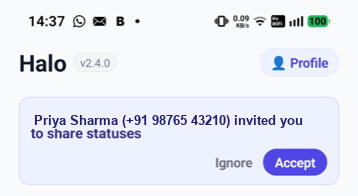
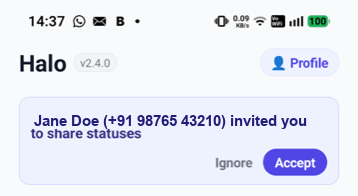
Rewrite the Halo page for new users
Lead with a 30-second summary, add getting-started steps and common
questions, and use English example names (Jane Doe, John Smith,
Emily Clark, Mike Brown) in the illustrations and invite screenshot.

Changed region(s): [[0.0922, 0.5816, 0.8603, 0.6735]]

diff --git a/halo/index.html b/halo/index.html
@@ -50,21 +50,82 @@ sitemap: false
 
 <p><img class="halo-icon" src="{{ '/halo/img/icon.png' | relative_url }}" alt="The Halo app icon: a glowing ring with a green dot" width="88" height="88"></p>
 
-<p>You call someone and it rings out. Later you find out they were driving. Or it's the other way round: you're in a meeting, your phone buzzes on the table, and you cut the call and hope they don't worry.</p>
+<p>You call a friend and it rings out. Later you find out they were driving. Or you're in a meeting, your phone buzzes on the table, and you cut the call and hope they don't worry.</p>
 
 <p>Nobody did anything wrong. The caller just couldn't tell.</p>
 
-<p><strong>Halo</strong> is a small app for Android and iPhone that fixes this. It lets your contacts know you're busy before they call.</p>
+<p><strong>Halo</strong> is an app for Android and iPhone that fixes this. It lets your contacts know you're busy before they call.</p>
 
-<h2>What it does</h2>
+<h2>Halo in 30 seconds</h2>
 
-<p>Halo shows your status where people already look: your name in their phone's contacts.</p>
+<ul>
+  <li><strong>You set a status</strong>, like 🚗 Driving or 📅 In a Meeting. One tap in the app or on the home-screen widget.</li>
+  <li><strong>It appears next to your name on their phone.</strong> If your friend has you saved as <strong>Jane Doe</strong>, they now see <strong>Jane Doe 🚗 Driving</strong>.</li>
+  <li><strong>They see it wherever your name shows up:</strong> recent calls, the incoming call screen, and WhatsApp.</li>
+  <li><strong>When you're free again</strong>, your name goes back to just <strong>Jane Doe</strong>.</li>
+</ul>
 
-<p>When Priya starts driving, her name on your phone changes from <strong>Priya Sharma</strong> to <strong>Priya Sharma 🚗 Driving</strong>. You see it in your phone app, in your recent calls, on the incoming call screen, and in WhatsApp, which uses the names from your contacts. When she's free again, her name goes back to just <strong>Priya Sharma</strong>.</p>
+<p>Nobody has to open Halo to check. They were about to call you anyway, and now they can see you're on the road.</p>
 
-<p>There's nothing new to open and nothing to check. You were about to call her anyway, and now you can see she's on the road.</p>
+<h2>What it looks like</h2>
 
-<p>These are the statuses you can pick:</p>
+<p>Here's a phone where a few contacts use Halo. These are drawings with made-up names, but each name is written exactly the way Halo writes it.</p>
+
+<div class="halo-row wide">
+  <figure>
+    <div class="halo-phone" role="img" aria-label="Illustration of a recent calls list: Jane Doe 🚗 Driving, John Smith 🔴 Busy, Mom, and Emily Clark 📅 In a Meeting">
+      <div class="halo-screen" aria-hidden="true">
+        <div class="halo-bar"><span>10:45</span><span>●●●</span></div>
+        <div class="halo-title">Recents</div>
+        <ul class="halo-list">
+          <li><span class="halo-av" style="background:#6e56cf">J</span><span class="halo-main"><span class="halo-name" style="display:block">Jane Doe 🚗 Driving</span><span class="halo-sub" style="display:block">Mobile</span></span><span class="halo-time">10:42</span></li>
+          <li><span class="halo-av" style="background:#0d74ce">J</span><span class="halo-main"><span class="halo-name" style="display:block">John Smith 🔴 Busy</span><span class="halo-sub" style="display:block">Mobile</span></span><span class="halo-time">9:15</span></li>
+          <li><span class="halo-av" style="background:#d6409f">M</span><span class="halo-main"><span class="halo-name" style="display:block">Mom</span><span class="halo-sub" style="display:block">Mobile</span></span><span class="halo-time">Yesterday</span></li>
+          <li><span class="halo-av" style="background:#12a594">E</span><span class="halo-main"><span class="halo-name" style="display:block">Emily Clark 📅 In a Meeting</span><span class="halo-sub" style="display:block">Mobile</span></span><span class="halo-time">Yesterday</span></li>
+          <li><span class="halo-av" style="background:#ca8a04">M</span><span class="halo-main"><span class="halo-name" style="display:block">Mike Brown</span><span class="halo-sub" style="display:block">Mobile</span></span><span class="halo-time">Mon</span></li>
+        </ul>
+      </div>
+    </div>
+    <figcaption>Recent calls. Mom and Mike have no status set, so their names look normal.</figcaption>
+  </figure>
+  <figure>
+    <div class="halo-phone" role="img" aria-label="Illustration of an incoming call from Jane Doe 🚗 Driving">
+      <div class="halo-screen" aria-hidden="true">
+        <div class="halo-call">
+          <div class="label">Incoming call</div>
+          <span class="halo-av" style="background:#6e56cf">J</span>
+          <div class="who">Jane Doe 🚗 Driving</div>
+          <div class="num">Mobile</div>
+          <div class="btns"><span class="no"></span><span class="yes"></span></div>
+        </div>
+      </div>
+    </div>
+    <figcaption>The incoming call screen shows the status too.</figcaption>
+  </figure>
+</div>
+
+<div class="halo-row wide">
+  <figure>
+    <div class="halo-phone" role="img" aria-label="Illustration of a chat list: Jane Doe 🚗 Driving, John Smith 🔴 Busy, Mom, and Emily Clark 🏋 At the Gym">
+      <div class="halo-screen" aria-hidden="true">
+        <div class="halo-bar"><span>10:45</span><span>●●●</span></div>
+        <div class="halo-title">Chats</div>
+        <div class="halo-tabs"><span>All</span><span>Unread</span><span>Groups</span></div>
+        <ul class="halo-list">
+          <li><span class="halo-av" style="background:#6e56cf">J</span><span class="halo-main"><span class="halo-name" style="display:block">Jane Doe 🚗 Driving</span><span class="halo-sub" style="display:block">Leaving now, see you at 7</span></span><span class="halo-time">10:40</span></li>
+          <li><span class="halo-av" style="background:#0d74ce">J</span><span class="halo-main"><span class="halo-name" style="display:block">John Smith 🔴 Busy</span><span class="halo-sub" style="display:block">Can we move the call to 4?</span></span><span class="halo-time">9:58</span></li>
+          <li><span class="halo-av" style="background:#d6409f">M</span><span class="halo-main"><span class="halo-name" style="display:block">Mom</span><span class="halo-sub" style="display:block">Did you eat?</span></span><span class="halo-time">9:30</span></li>
+          <li><span class="halo-av" style="background:#12a594">E</span><span class="halo-main"><span class="halo-name" style="display:block">Emily Clark 🏋 At the Gym</span><span class="halo-sub" style="display:block">Sent the tickets</span></span><span class="halo-time">8:12</span></li>
+        </ul>
+      </div>
+    </div>
+    <figcaption>WhatsApp uses the names saved in your contacts, so the status shows there too.</figcaption>
+  </figure>
+</div>
+
+<p>John is a work contact, so you only ever see <strong>🔴 Busy</strong> for him, whatever he's actually doing. More on that below.</p>
+
+<h2>The statuses</h2>
 
 <ul class="halo-statuses">
   <li>🟢 Available</li>
@@ -74,128 +135,77 @@ sitemap: false
   <li>🏋 At the Gym</li>
 </ul>
 
-<p>Halo can also set some of them for you. Under <strong>Auto-set</strong> you can turn on Driving, Calendar meetings and Low battery, and Halo switches your status when it notices one of those. Each one is a switch, so you choose which ones run.</p>
+<p>You can set them yourself, or let Halo do it. Under <strong>Auto-set</strong>, turn on Driving, Calendar meetings or Low battery, and Halo changes your status when it notices one of those. Each one has its own switch.</p>
 
-<h2>How it looks</h2>
+<h2>Getting started</h2>
 
-<p>Here's what your phone shows when a few of your contacts use Halo. These are illustrations, with made-up names, but the names are written exactly the way Halo writes them.</p>
+<p>Halo only works between people who both have it, so setting up takes two people. It takes about a minute.</p>
 
-<div class="halo-row wide">
-  <figure>
-    <div class="halo-phone" role="img" aria-label="Illustration of a recent calls list: Priya Sharma 🚗 Driving, Rahul Mehta 🔴 Busy, Mom, and Ananya Iyer 📅 In a Meeting">
-      <div class="halo-screen" aria-hidden="true">
-        <div class="halo-bar"><span>10:45</span><span>●●●</span></div>
-        <div class="halo-title">Recents</div>
-        <ul class="halo-list">
-          <li><span class="halo-av" style="background:#6e56cf">P</span><span class="halo-main"><span class="halo-name" style="display:block">Priya Sharma 🚗 Driving</span><span class="halo-sub" style="display:block">Mobile</span></span><span class="halo-time">10:42</span></li>
-          <li><span class="halo-av" style="background:#0d74ce">R</span><span class="halo-main"><span class="halo-name" style="display:block">Rahul Mehta 🔴 Busy</span><span class="halo-sub" style="display:block">Mobile</span></span><span class="halo-time">9:15</span></li>
-          <li><span class="halo-av" style="background:#d6409f">M</span><span class="halo-main"><span class="halo-name" style="display:block">Mom</span><span class="halo-sub" style="display:block">Mobile</span></span><span class="halo-time">Yesterday</span></li>
-          <li><span class="halo-av" style="background:#12a594">A</span><span class="halo-main"><span class="halo-name" style="display:block">Ananya Iyer 📅 In a Meeting</span><span class="halo-sub" style="display:block">Mobile</span></span><span class="halo-time">Yesterday</span></li>
-          <li><span class="halo-av" style="background:#ca8a04">K</span><span class="halo-main"><span class="halo-name" style="display:block">Karan Shah</span><span class="halo-sub" style="display:block">Mobile</span></span><span class="halo-time">Mon</span></li>
-        </ul>
-      </div>
-    </div>
-    <figcaption>Illustration: how your contacts look in your phone app. Mom and Karan have no status showing, so their names are unchanged.</figcaption>
-  </figure>
-  <figure>
-    <div class="halo-phone" role="img" aria-label="Illustration of an incoming call from Priya Sharma 🚗 Driving, +91 98765 43210">
-      <div class="halo-screen" aria-hidden="true">
-        <div class="halo-call">
-          <div class="label">Incoming call</div>
-          <span class="halo-av" style="background:#6e56cf">P</span>
-          <div class="who">Priya Sharma 🚗 Driving</div>
-          <div class="num">Mobile · +91 98765 43210</div>
-          <div class="btns"><span class="no"></span><span class="yes"></span></div>
-        </div>
-      </div>
-    </div>
-    <figcaption>Illustration: the incoming call screen shows the status too.</figcaption>
-  </figure>
-</div>
-
-<div class="halo-row wide">
-  <figure>
-    <div class="halo-phone" role="img" aria-label="Illustration of a chat list: Priya Sharma 🚗 Driving, Rahul Mehta 🔴 Busy, Mom, and Ananya Iyer 🏋 At the Gym">
-      <div class="halo-screen" aria-hidden="true">
-        <div class="halo-bar"><span>10:45</span><span>●●●</span></div>
-        <div class="halo-title">Chats</div>
-        <div class="halo-tabs"><span>All</span><span>Unread</span><span>Groups</span></div>
-        <ul class="halo-list">
-          <li><span class="halo-av" style="background:#6e56cf">P</span><span class="halo-main"><span class="halo-name" style="display:block">Priya Sharma 🚗 Driving</span><span class="halo-sub" style="display:block">Leaving now, see you at 7</span></span><span class="halo-time">10:40</span></li>
-          <li><span class="halo-av" style="background:#0d74ce">R</span><span class="halo-main"><span class="halo-name" style="display:block">Rahul Mehta 🔴 Busy</span><span class="halo-sub" style="display:block">Can we move the call to 4?</span></span><span class="halo-time">9:58</span></li>
-          <li><span class="halo-av" style="background:#d6409f">M</span><span class="halo-main"><span class="halo-name" style="display:block">Mom</span><span class="halo-sub" style="display:block">Did you eat?</span></span><span class="halo-time">9:30</span></li>
-          <li><span class="halo-av" style="background:#12a594">A</span><span class="halo-main"><span class="halo-name" style="display:block">Ananya Iyer 🏋 At the Gym</span><span class="halo-sub" style="display:block">Sent the tickets</span></span><span class="halo-time">8:12</span></li>
-        </ul>
-      </div>
-    </div>
-    <figcaption>Illustration: the same names in WhatsApp's chat list. WhatsApp shows the names saved in your contacts, so the status comes along.</figcaption>
-  </figure>
-</div>
-
-<p>Rahul is a work contact, so you only ever see <strong>🔴 Busy</strong> for him, whatever he's actually doing. More on that below.</p>
-
-<h2>The app</h2>
-
-<p>You sign in with your phone number and a verification code. There's no username, password or profile to fill in.</p>
-
-<p>After that it's one screen. At the top is your status. Below it is who sees it, split into Family and Work.</p>
+<ol>
+  <li><strong>Install Halo</strong> from the link at the end of this page.</li>
+  <li><strong>Sign in with your phone number.</strong> You get a code by SMS. There's no username, password or profile to fill in.</li>
+  <li><strong>Allow access to your contacts.</strong> Halo needs this to find the people you invite and to add their status to their name on your phone.</li>
+  <li><strong>Invite someone.</strong> Tap <strong>+ Invite</strong> under Family or Work and pick them from your contacts. Halo opens your share sheet with a link, so you can send it by WhatsApp, SMS or anything else.</li>
+  <li><strong>They install Halo and tap Accept.</strong> The invite is waiting for them when they sign in. From then on, you each see the other's status.</li>
+</ol>
 
 <div class="halo-row wide">
   <figure class="shot login">
-    <img class="halo-shot" src="{{ '/halo/img/login.png' | relative_url }}" alt="Halo's sign-in screen on iPhone: the app icon, the line 'Let your contacts know you're busy before they call', a phone number field with +91, and a Get Verification Code button" width="368" height="800" loading="lazy">
+    <img class="halo-shot" src="{{ '/halo/img/login.png' | relative_url }}" alt="Halo's sign-in screen on iPhone: the app icon, the line 'Let your contacts know you're busy before they call', a phone number field, and a Get Verification Code button" width="368" height="800" loading="lazy">
     <figcaption>Sign in with your phone number.</figcaption>
   </figure>
   <figure class="shot main">
     <img class="halo-shot" src="{{ '/halo/img/main.png' | relative_url }}" alt="Halo's main screen on iPhone: MY STATUS set to Available, an Auto-set row showing Driving and Low Battery, and WHO SEES MY STATUS with Family (sees your full status) and Work (sees only 🔴 Busy), each with an Invite button" width="449" height="800" loading="lazy">
-    <figcaption>Your status, and who sees it.</figcaption>
+    <figcaption>The whole app is one screen: your status, and who sees it.</figcaption>
   </figure>
 </div>
 
-<h2>How sharing works</h2>
-
-<p>Nobody sees your status unless you've both said yes.</p>
-
-<ol>
-  <li><strong>Invite someone.</strong> Tap <strong>+ Invite</strong> under Family or Work and pick them from your contacts. Halo opens your share sheet with a link, so you can send it however you like.</li>
-  <li><strong>They install Halo</strong> and sign in with the same number you picked.</li>
-  <li><strong>They accept.</strong> Your invite is waiting for them, with your name as it's saved in their contacts. They tap <strong>Accept</strong> and choose Family or Work for you.</li>
-  <li><strong>That's it.</strong> From then on, you each see the other's status on your own phones.</li>
-</ol>
-
-<p>If they tap <strong>Ignore</strong>, the invite is deleted. You aren't told.</p>
-
 <figure class="halo-fig">
-  <img class="halo-wide-shot" src="{{ '/halo/img/invite.png' | relative_url }}" alt="An invite card at the top of Halo on Android: 'Priya Sharma (+91 98765 43210) invited you to share statuses', with Ignore and Accept buttons" width="358" height="196" loading="lazy">
-  <figcaption>An invite, as it appears for the person you invited. The name and number here are made up.</figcaption>
+  <img class="halo-wide-shot" src="{{ '/halo/img/invite.png' | relative_url }}" alt="An invite card at the top of Halo on Android: 'Jane Doe (+91 98765 43210) invited you to share statuses', with Ignore and Accept buttons" width="358" height="196" loading="lazy">
+  <figcaption>What the person you invite sees. Halo shows your name as it's saved in their contacts. The name and number here are made up.</figcaption>
 </figure>
 
-<h3>Family and Work</h3>
+<p>If they tap <strong>Ignore</strong>, the invite is deleted and you aren't told.</p>
+
+<h2>Family and Work</h2>
 
 <p>Not everyone needs to know you're at the gym.</p>
 
 <ul>
   <li><strong>Family</strong> sees your full status: 🚗 Driving, 📅 In a Meeting, 🏋 At the Gym and so on.</li>
-  <li><strong>Work</strong> sees only <strong>🔴 Busy</strong>. Your colleague learns it's not a good time, and nothing more.</li>
+  <li><strong>Work</strong> sees only <strong>🔴 Busy</strong>. A colleague learns it's not a good time, and nothing more.</li>
 </ul>
 
-<p>You can move someone between the two at any time.</p>
+<p>You can move someone from one group to the other at any time.</p>
 
-<h2>Privacy</h2>
+<h2>Common questions</h2>
 
-<p>Halo is built to know as little about you as it can.</p>
+<h3>Do the people I call need Halo too?</h3>
+<p>Yes. You see the status of people who use Halo and have accepted your invite, and they see yours. Everyone else in your contacts stays exactly as it is.</p>
 
+<h3>Does it work between Android and iPhone?</h3>
+<p>Yes. An iPhone user and an Android user can share statuses with each other.</p>
+
+<h3>Will it mess up my contacts?</h3>
+<p>No. Halo adds the status to the end of a contact's name and keeps the original name. When the person is available again, it puts the original name back. Only people you share statuses with are changed.</p>
+
+<h3>How fast does a status change show up?</h3>
+<p>Usually within a few seconds. On iPhone it can sometimes take longer, because iOS decides when background apps get to run.</p>
+
+<h3>What does Halo know about me?</h3>
+<p>As little as it can:</p>
 <ul>
-  <li><strong>No names on the server.</strong> Names come from the contacts already on each phone. Halo's server never gets your contact list.</li>
-  <li><strong>Your number isn't your ID.</strong> Your status is filed under a one-way hash of your phone number, not the number itself. An invite does carry your number, so the other person's phone can find you in their contacts.</li>
-  <li><strong>Only people you've accepted.</strong> Your status can be read only by the people who've accepted an invite with you. Someone with a pending invite sees nothing yet.</li>
-  <li><strong>Very little to share.</strong> What goes up is your current status, like 🚗 Driving, the time you set it, and a few app settings.</li>
-  <li><strong>Your contacts are put back.</strong> To show a status, Halo edits the contact's name on your phone, so it asks for permission to edit contacts. It keeps the original name on your phone and restores it when the person is available again.</li>
+  <li><strong>No names, no contact list.</strong> Names come from the contacts already on each phone. Your address book never leaves your phone.</li>
+  <li><strong>Only your current status.</strong> Halo's server stores your status (like 🚗 Driving), when you set it, and a few app settings. Your status is filed under a scrambled code made from your phone number, not the number itself.</li>
+  <li><strong>Only people you've accepted.</strong> Nobody else can read your status, including people whose invite is still pending.</li>
+  <li><strong>No ads and no tracking.</strong></li>
 </ul>
+<p>You can delete your account and its data from the app at any time. The <a href="https://halo-status-sync.web.app/privacy">privacy policy</a> has the details.</p>
 
-<h2>Where it's at</h2>
+<h2>Try it</h2>
 
-<p>Halo is in testing on Android and iPhone. If you'd like to try it, you can get it here:</p>
+<p>Halo is in testing on Android and iPhone. Get it here:</p>
 
 <p><a class="halo-get" href="https://halo-status-sync.web.app/get">Get Halo</a></p>
 
-<p>It works best when the people you call most use it too, so invite one or two of them when you start.</p>
+<p>Halo is most useful when the people you call most use it too, so invite one or two of them when you start.</p>
